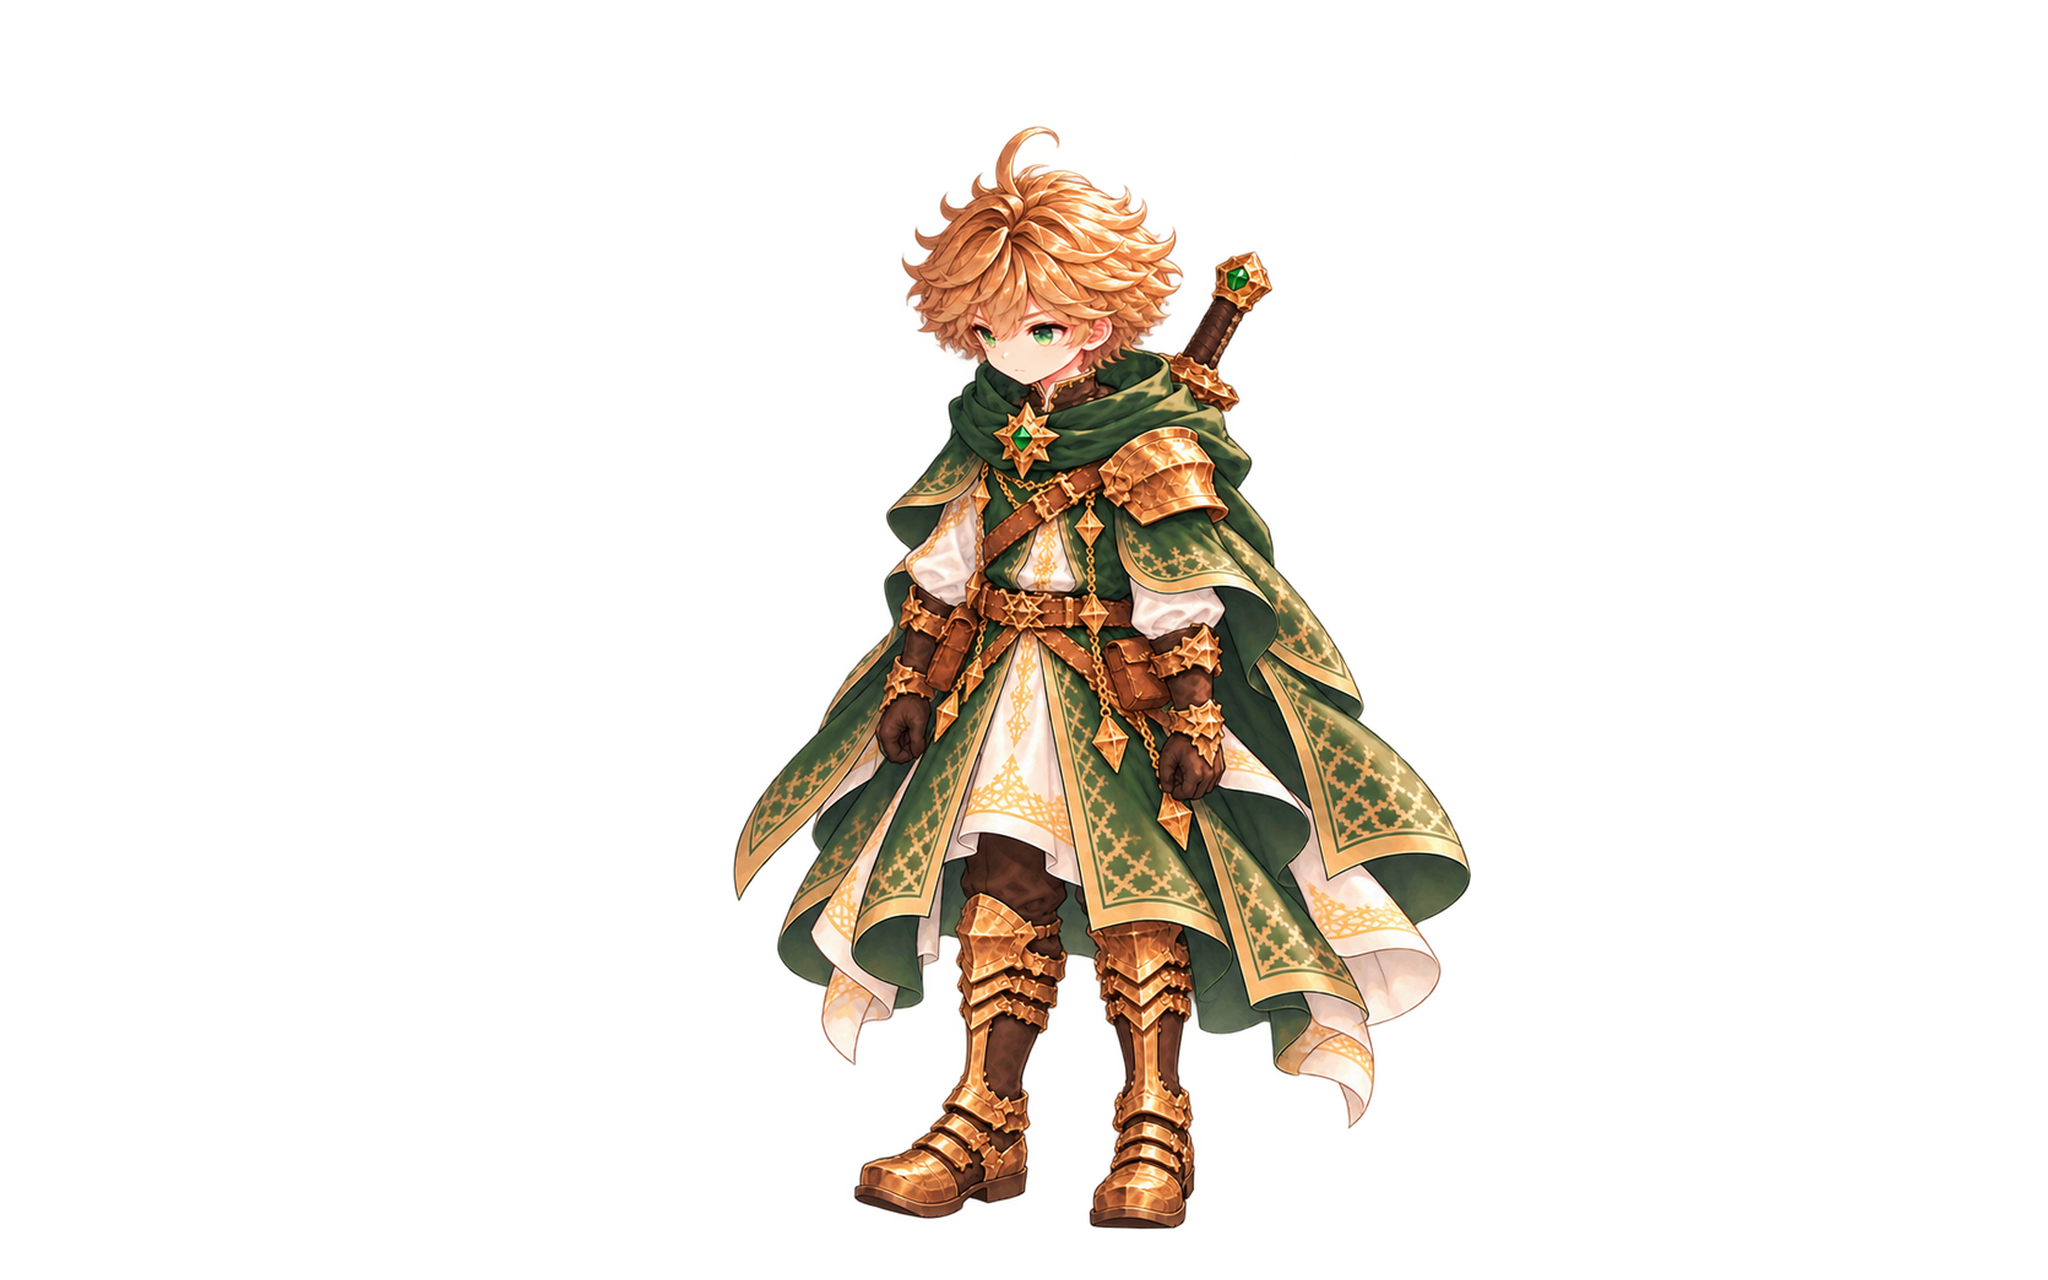
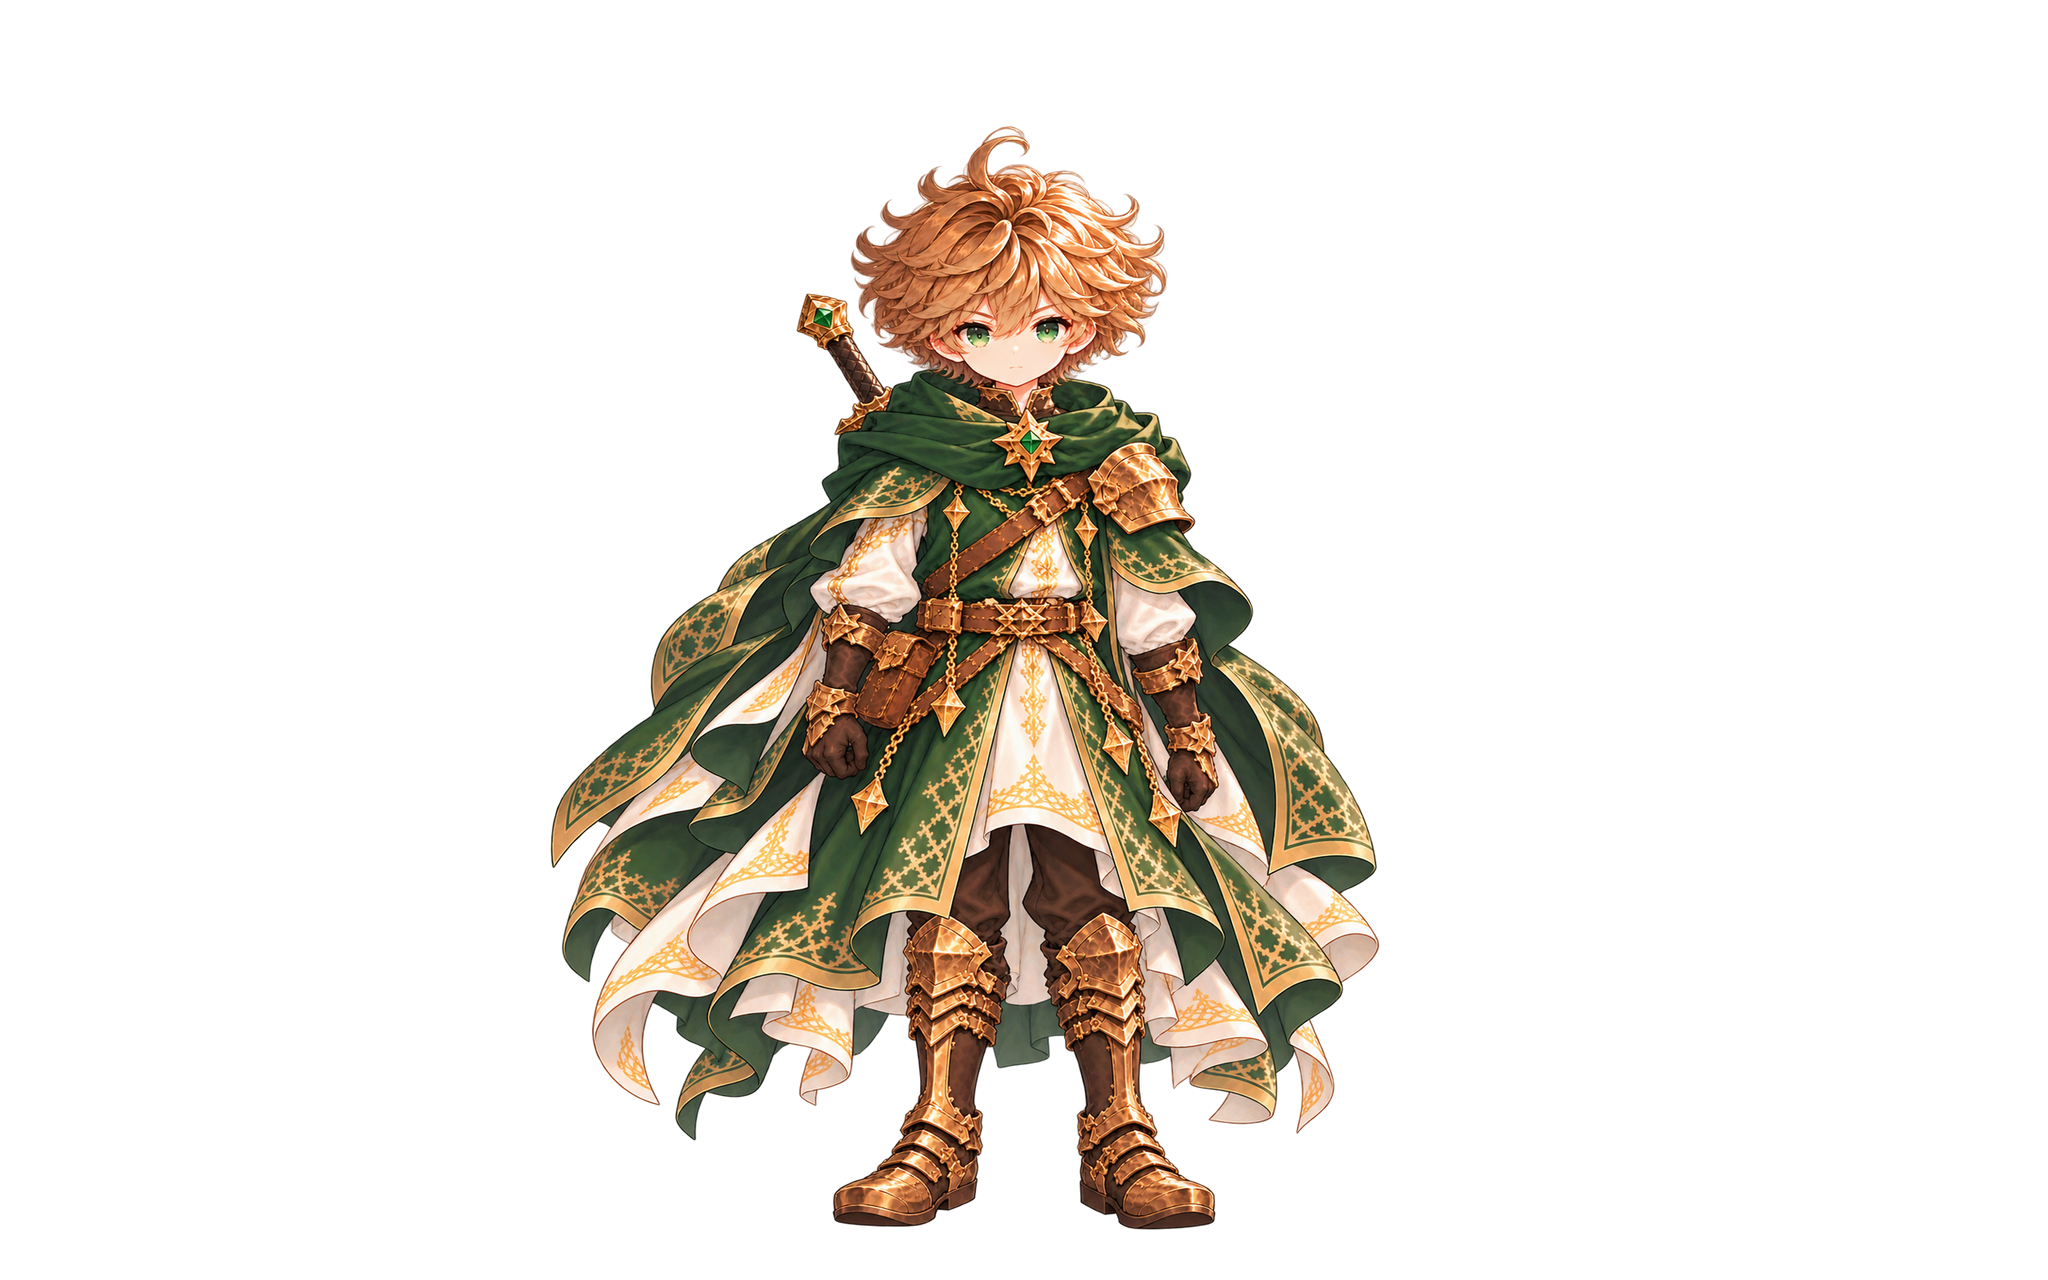
Aidan field: apply new front standing pose (idle_down); a stop facing down now uses it
- aidan_idle_down.png replaced (haze alpha<6 removed, same canvas/anchor/body height), previous kept in docs/art
- stop after straight-down walk shows idle_down instead of walk_down_01 (up unchanged)

Claude-Session: https://claude.ai/code/session_01KtAepaq115Lcetj5TqkPJk

Changed region(s): [[0.25, 0.0938, 0.7188, 0.9688]]

diff --git a/js/field/moss-forest-runtime.js b/js/field/moss-forest-runtime.js
@@ -60,7 +60,7 @@
       if(spr.state==='WALK'){const n=walkCount(spr.frames,'aidan_',artOf(spr.dir,spr.flip).dir);spr.phase=Math.floor((spr.dist||0)/(STRIDE_CYCLE/n))%n;}   // foot cadence follows the distance walked (no skating at any speed)
     }
     spr.px=S.x;spr.py=S.y;
-    const ART=artOf(spr.dir,spr.flip),name='aidan_'+(spr.state==='WALK'?'walk_'+ART.dir+'_'+String(spr.phase+1).padStart(2,'0'):(spr.straight&&(spr.dir==='down'||spr.dir==='up')?'walk_'+spr.dir+'_01':'idle_'+spr.dir));   // a stop after straight up/down keeps the frontal / back pose (the 3/4 idle would turn the hero)
+    const ART=artOf(spr.dir,spr.flip),name='aidan_'+(spr.state==='WALK'?'walk_'+ART.dir+'_'+String(spr.phase+1).padStart(2,'0'):(spr.straight&&spr.dir==='up'?'walk_up_01':'idle_'+spr.dir));   // a stop after straight up/down keeps the frontal / back pose (the 3/4 idle would turn the hero)
     if(spr.visible!==name&&spr.frames.has(name)){if(spr.visible)spr.frames.get(spr.visible).hidden=true;spr.frames.get(name).hidden=!spr.ready;spr.visible=name;}
     else if(spr.visible)spr.frames.get(spr.visible).hidden=!spr.ready;
     if(spr.visible){const f=spr.frames.get(spr.visible);f.style.transform=(spr.state==='WALK'?'translateY('+(-Math.abs(Math.sin((spr.dist||0)/(STRIDE_CYCLE/2)*Math.PI))*1.5).toFixed(2)+'px)':'')+(spr.state==='WALK'&&ART.flip?' scaleX(-1)':'');}   // soft step bob between the 4 painted frames

diff --git a/index.html b/index.html
@@ -1969,7 +1969,7 @@ const v66DJ=devJump;devJump=function(k){const r=v66DJ(k);syncStoryEquipment();re
 <script src="js/field/field-walkers.js"></script>
 <script src="js/field/field-monsters.js?v=20261012d"></script>
 <script src="js/field/fiona-field-assets.js?v=20261012z"></script>
-<script src="js/field/moss-forest-runtime.js?v=20261013ul"></script>
+<script src="js/field/moss-forest-runtime.js?v=20261014idl"></script>
 <script src="js/field/moss-forest-story.js?v=20261012a"></script>
 <script src="js/field/rilde-village.js?v=20261011b"></script>
 <script src="js/data/item-data.js"></script>
@@ -2014,9 +2014,9 @@ const v66DJ=devJump;devJump=function(k){const r=v66DJ(k);syncStoryEquipment();re
 <script src="js/field/lind-npcs.js"></script>
 <script src="js/field/lind-birds.js"></script>
 <link rel="stylesheet" href="css/aidan-field.css">
-<script src="js/field/aidan-field-assets.js?v=20261013dl12"></script>
+<script src="js/field/aidan-field-assets.js?v=20261014idl"></script>
 <script src="js/field/aidan-heading.js?v=20261013dn"></script>
-<script src="js/field/aidan-field-actor.js?v=20261013ul"></script>
+<script src="js/field/aidan-field-actor.js?v=20261014idl"></script>
 <script src="js/field/lind-terrain-layout.js"></script>
 <script src="js/field/lind-terrain-blend.js"></script>
 <script src="js/field/lind-review.js"></script>

diff --git a/js/field/aidan-field-actor.js b/js/field/aidan-field-actor.js
@@ -31,7 +31,7 @@
   }
   function render() {
     const art = window.AidanHeading&&AidanHeading.art ? AidanHeading.art(direction,flip) : {dir:direction,flip};
-    const name = 'aidan_'+(state==='WALK'?'walk_'+art.dir+'_'+String(phase+1).padStart(2,'0'):(straight&&(direction==='down'||direction==='up')?'walk_'+direction+'_01':'idle_'+direction));
+    const name = 'aidan_'+(state==='WALK'?'walk_'+art.dir+'_'+String(phase+1).padStart(2,'0'):(straight&&direction==='up'?'walk_'+direction+'_01':'idle_'+direction));
     if (visible !== name) {
       if (visible) images.get(visible).hidden = true;
       images.get(name).hidden = !(active && enabled && loaded); visible = name;

diff --git a/js/field/aidan-field-assets.js b/js/field/aidan-field-assets.js
@@ -4,13 +4,13 @@
   if (!window.WINDBOUND_DEV) return;
   const frames = {
  "aidan_idle_down": {
-  "path": "img/field/characters/aidan/aidan_idle_down.png?v=0af6b2e7",
+  "path": "img/field/characters/aidan/aidan_idle_down.png?v=17a2157e",
   "width": 2048,
   "height": 1280,
   "bounds": [
-   733,
+   550,
    126,
-   738,
+   830,
    1104
   ],
   "anchor": [
